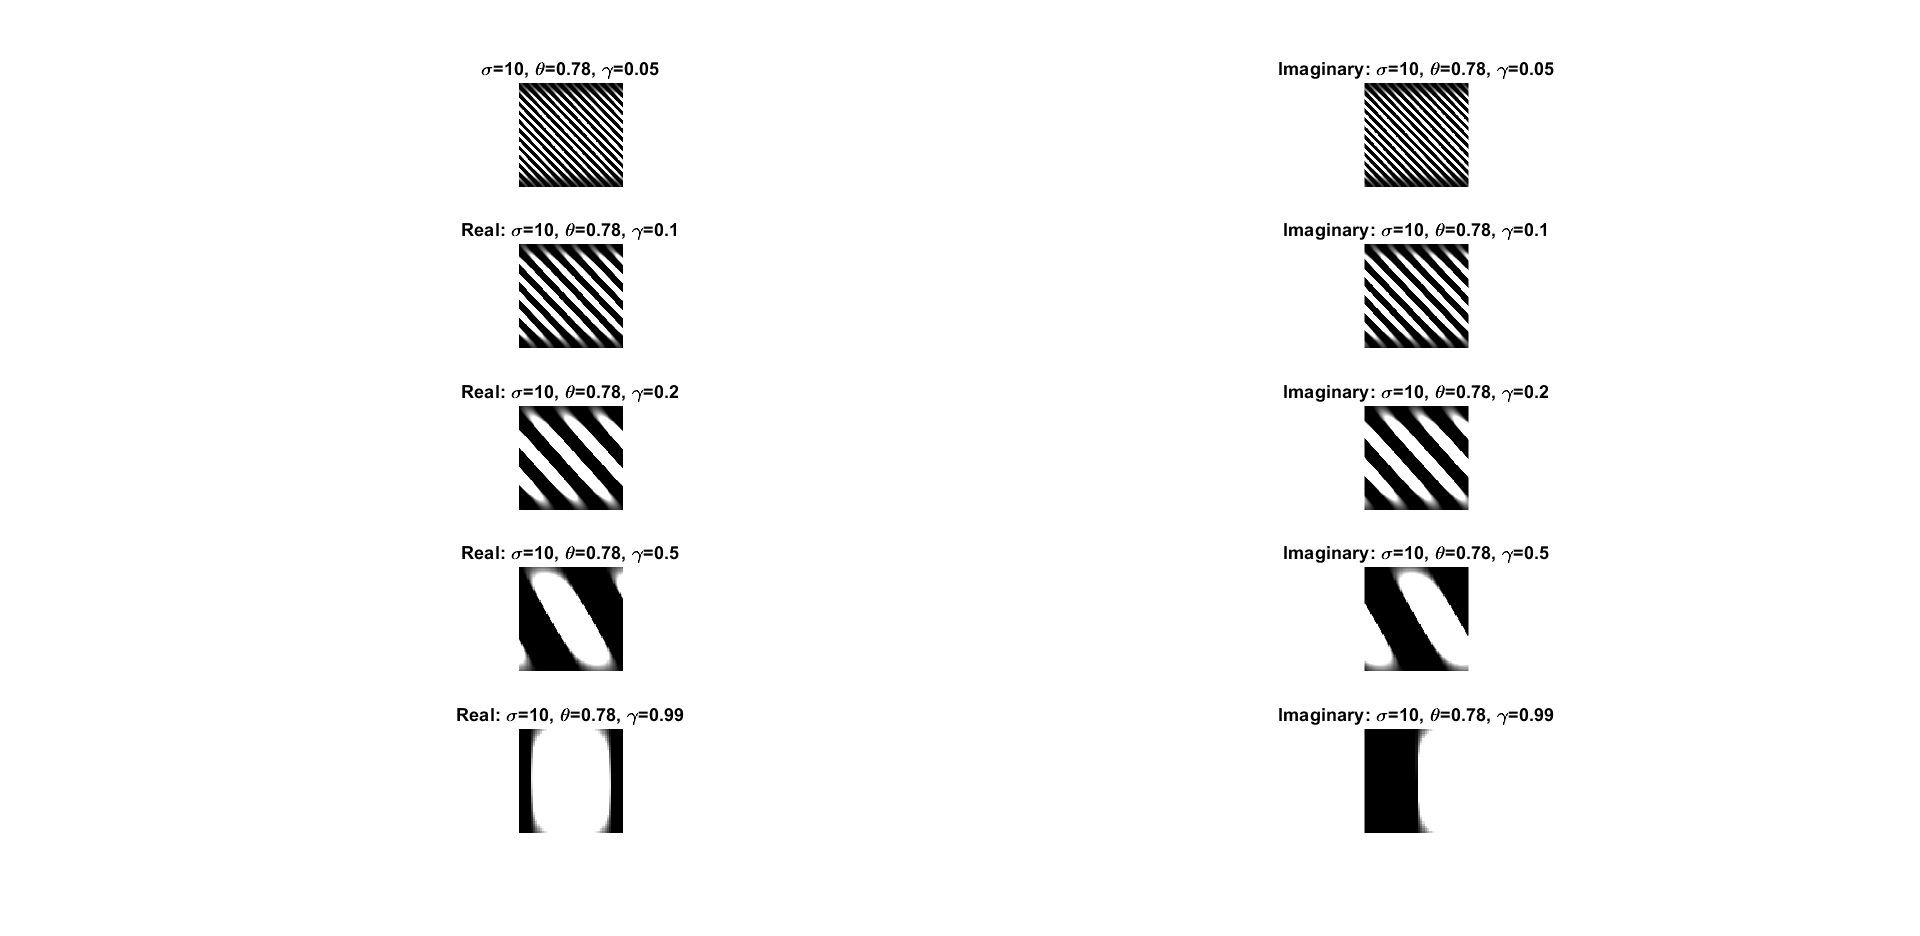
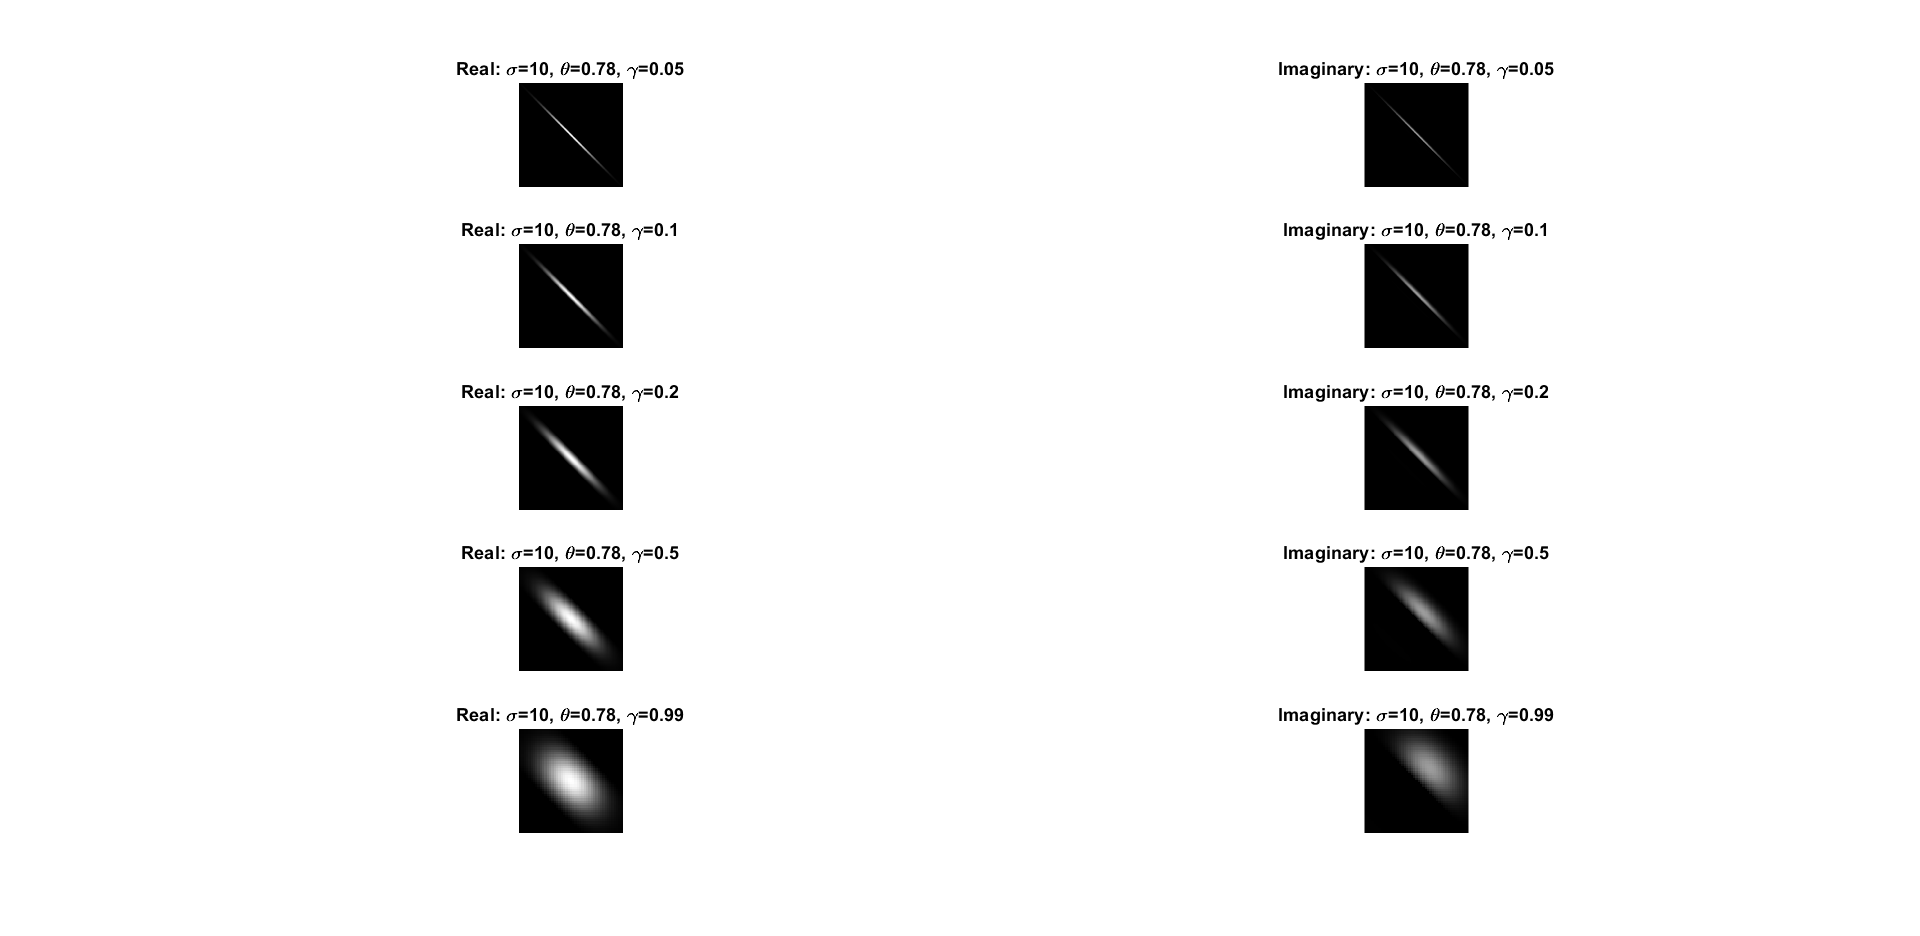
Add correct plotting results for gabor filter parameter effects

diff --git a/Assignment-2/Part-2_ Gabor Segmentation/plotGaborEffect.m b/Assignment-2/Part-2_ Gabor Segmentation/plotGaborEffect.m
@@ -7,7 +7,7 @@ function [] = plotGaborEffect(sigmas, thetas, gammas)
     
     figure;
     subplot(5,2,1), imshow(G1(:,:,1));
-    title(['\sigma=', num2str(sigmas(1)), ', \theta=', num2str(thetas(1)), ', \gamma=', num2str(gammas(1))]);
+    title(['Real: \sigma=', num2str(sigmas(1)), ', \theta=', num2str(thetas(1)), ', \gamma=', num2str(gammas(1))]);
     subplot(5,2,2), imshow(G1(:,:,2));
     title(['Imaginary: \sigma=', num2str(sigmas(1)), ', \theta=', num2str(thetas(1)), ', \gamma=', num2str(gammas(1))]);
     subplot(5,2,3), imshow(G2(:,:,1));
